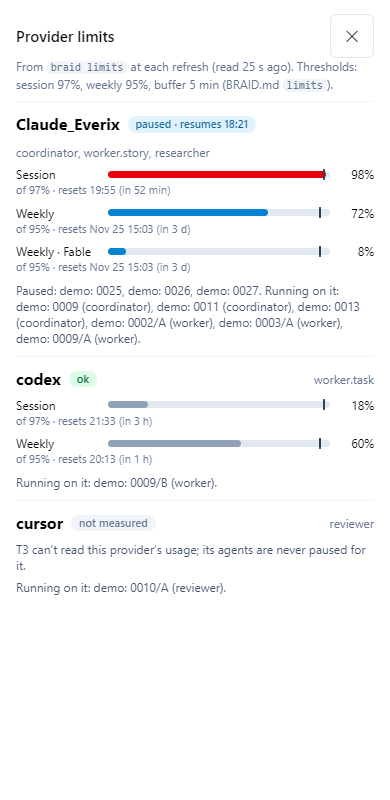
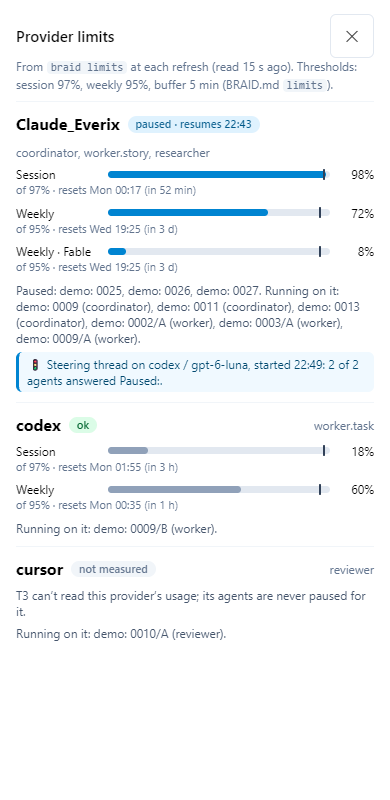
docs: the board watches provider limits: Paused wording, roadmap, retaken limits screenshots

diff --git a/docs/board.md b/docs/board.md
@@ -57,7 +57,7 @@ Detected, not asked, and shown only after the condition has held for 10 minutes,
 
 ### Paused
 
-A braid paused for a provider's usage limit, or held by you or the PM (`braid pause`, [the CLI](cli.md#pauses)), is a recorded state, read from `.braid/pauses.json` of the main checkout. The board writes it only for its own limits pause ([Provider limits](#provider-limits), `by: board`). The braid and each of its strands not Done carry the pause mark, and the pause opens no Needs You: the braid stays where its lanes put it (usually Working). While paused, `stalled` is held back (both kinds), so a braid waiting for a reset isn't called stalled.
+A braid paused for a provider's usage limit, or held by you or the PM (`braid pause`, [the CLI](cli.md#pauses)), is a recorded state, read from `.braid/pauses.json` of the main checkout. The board writes it only for its own limits pause ([Provider limits](#provider-limits), `by: board`). The braid and each of its strands not Done carry the pause mark, and a pause opens no Needs You of its own, except a weekly window ([The board pauses and resumes](#the-board-pauses-and-resumes)): the braid stays where its lanes put it (usually Working). While paused, `stalled` is held back (both kinds), so a braid waiting for a reset isn't called stalled.
 
 - **Paused:** a sky pause icon and, on a Working or To Do card with Details on, the line "Paused: Claude_Everix Session 97%, resumes 21:05" with "paused by the coordinator 18 min ago" under it. A strand row shows only the icon; its tooltip holds the line. The details panel shows a box with when it paused, the window and its reset, the resume time with the buffer, who paused (thread), the resume task and `braid resume <number>` for a resume by hand.
 - **Paused by the board** ([Provider limits](#provider-limits)): while its 🚦 steering thread runs, a pulsing sky icon and "Pausing for Claude_Everix Session 97%: 3 agents asked to pause" with "🚦 steering thread started 1 min ago"; then "Paused: …, resumes 13:55" with "paused by the board 6 min ago · 3 of 3 agents answered". When an agent didn't answer the line is amber: "Paused: …; 1 agent didn’t answer" with "0026/A: no answer in 10 min; check its thread". Overdue, it reads "no board was running then · resumes at the next refresh after a re-check". The details box names the steering thread and its provider, and says the board re-checks and resumes at the resume time.

diff --git a/braids/0064-the-board-watches-provider-limits/E-docs-the-board-watches-provider-limits/report.md b/braids/0064-the-board-watches-provider-limits/E-docs-the-board-watches-provider-limits/report.md
@@ -1,0 +1,21 @@
+# Report: 0064/E Docs: the board watches provider limits
+
+**What changed:** read the whole braid diff against `main` and each doc in `BRAID.md` `docs`. C and D had already updated most of them. Left over and fixed:
+- `docs/board.md` "Paused" still said a pause opens no Needs You; it now names the weekly-window exception (0064/C review suggestion 2).
+- `docs/roadmap.md`: a status line for 0064 (built).
+- `docs/design/board-screenshots/110`, `111` and `112` retaken from `braid board --demo`: the paused chip's session bar is no longer red (B's finding), and 110 shows the steering-thread line.
+
+**Docs, one by one:**
+- README.md: unchanged (C/D wording is true: the board pauses, coordinators launch nothing meanwhile).
+- docs/getting-started.md, docs/autonomy.md, docs/cli.md, docs/braids-format.md: unchanged (already say the board pauses and resumes; the `coordinator`/`pm` records are described as older). 
+- docs/board.md: updated (Paused paragraph, screenshots).
+- CLI help text (`src/cli.ts`, `src/commands/pauses.ts`): unchanged; it already has `--no-pause`, `--by ...|board`.
+- docs/decisions.md: unchanged (D90 and the log entry replace D87's pauser).
+- docs/roadmap.md: updated. docs/development.md, docs/npm-distribution.md: unchanged, unaffected.
+
+**Validation:** `npm run verify` passes (545 tests, docs gate and links). Screenshots from `node dist/cli.js board --demo`.
+
+**Open:** none.
+
+For later items: none.
+Needs the user: none.

diff --git a/docs/roadmap.md b/docs/roadmap.md
@@ -12,4 +12,5 @@ As [D01](decisions.md) says, built with the Backlog.md-based flow, and now done.
 - states derived from GitHub, T3 and labels, not stored in task files: built as the attention board's lanes To Do, Working, To Review, Needs You, Done (D32);
 - actions: Start, Merge on request, Open thread (built, see [the board](board.md)).
 - pausing for provider usage limits (braid 0061, built): `braid limits`, `braid pause` and `braid resume`, the paused state on the board and in `braid status`, and the pause and resume steps in the skills (D86, D87).
+- the board watches provider limits (braid 0064, built): the board reads `braid limits` at each refresh, shows each provider's usage against its threshold, pauses and resumes the agents on a provider over its threshold through a steering thread (`braid board --no-pause` turns it off), and pushes each pause, resume and weekly window; coordinators and PMs keep only the check before a launch (D90, replacing D87's pauser).
 - programmes (braid 0062, built): the programme manager's programmes in a panel on the board with their stall, requests addressed to the PM with escalation and `braid forward`, the PM's own requests pushed to the phone, and holds (D88, D89).

diff --git a/braids/0064-the-board-watches-provider-limits/E-docs-the-board-watches-provider-limits/brief.md b/braids/0064-the-board-watches-provider-limits/E-docs-the-board-watches-provider-limits/brief.md
@@ -1,7 +1,7 @@
 ---
 id: '0064/E'
 title: "Docs: The board watches provider limits"
-status: To Do
+status: In Progress
 labels: ["kind:task", "tier:S"]
 dependencies: ['0064/A', '0064/B', '0064/C', '0064/D']
 order: 50
@@ -31,7 +31,7 @@ Expected size: about 150 lines in 6 files.
 
 ## Completion
 
-- [ ] report.md lists each doc in `BRAID.md` `docs` as updated or unchanged
-- [ ] Docs from BRAID.md `docs` that this braid makes untrue are updated
-- [ ] The gate command from BRAID.md passes
-- [ ] report.md written: what changed, why, validation, anything open
+- [x] report.md lists each doc in `BRAID.md` `docs` as updated or unchanged
+- [x] Docs from BRAID.md `docs` that this braid makes untrue are updated
+- [x] The gate command from BRAID.md passes
+- [x] report.md written: what changed, why, validation, anything open
